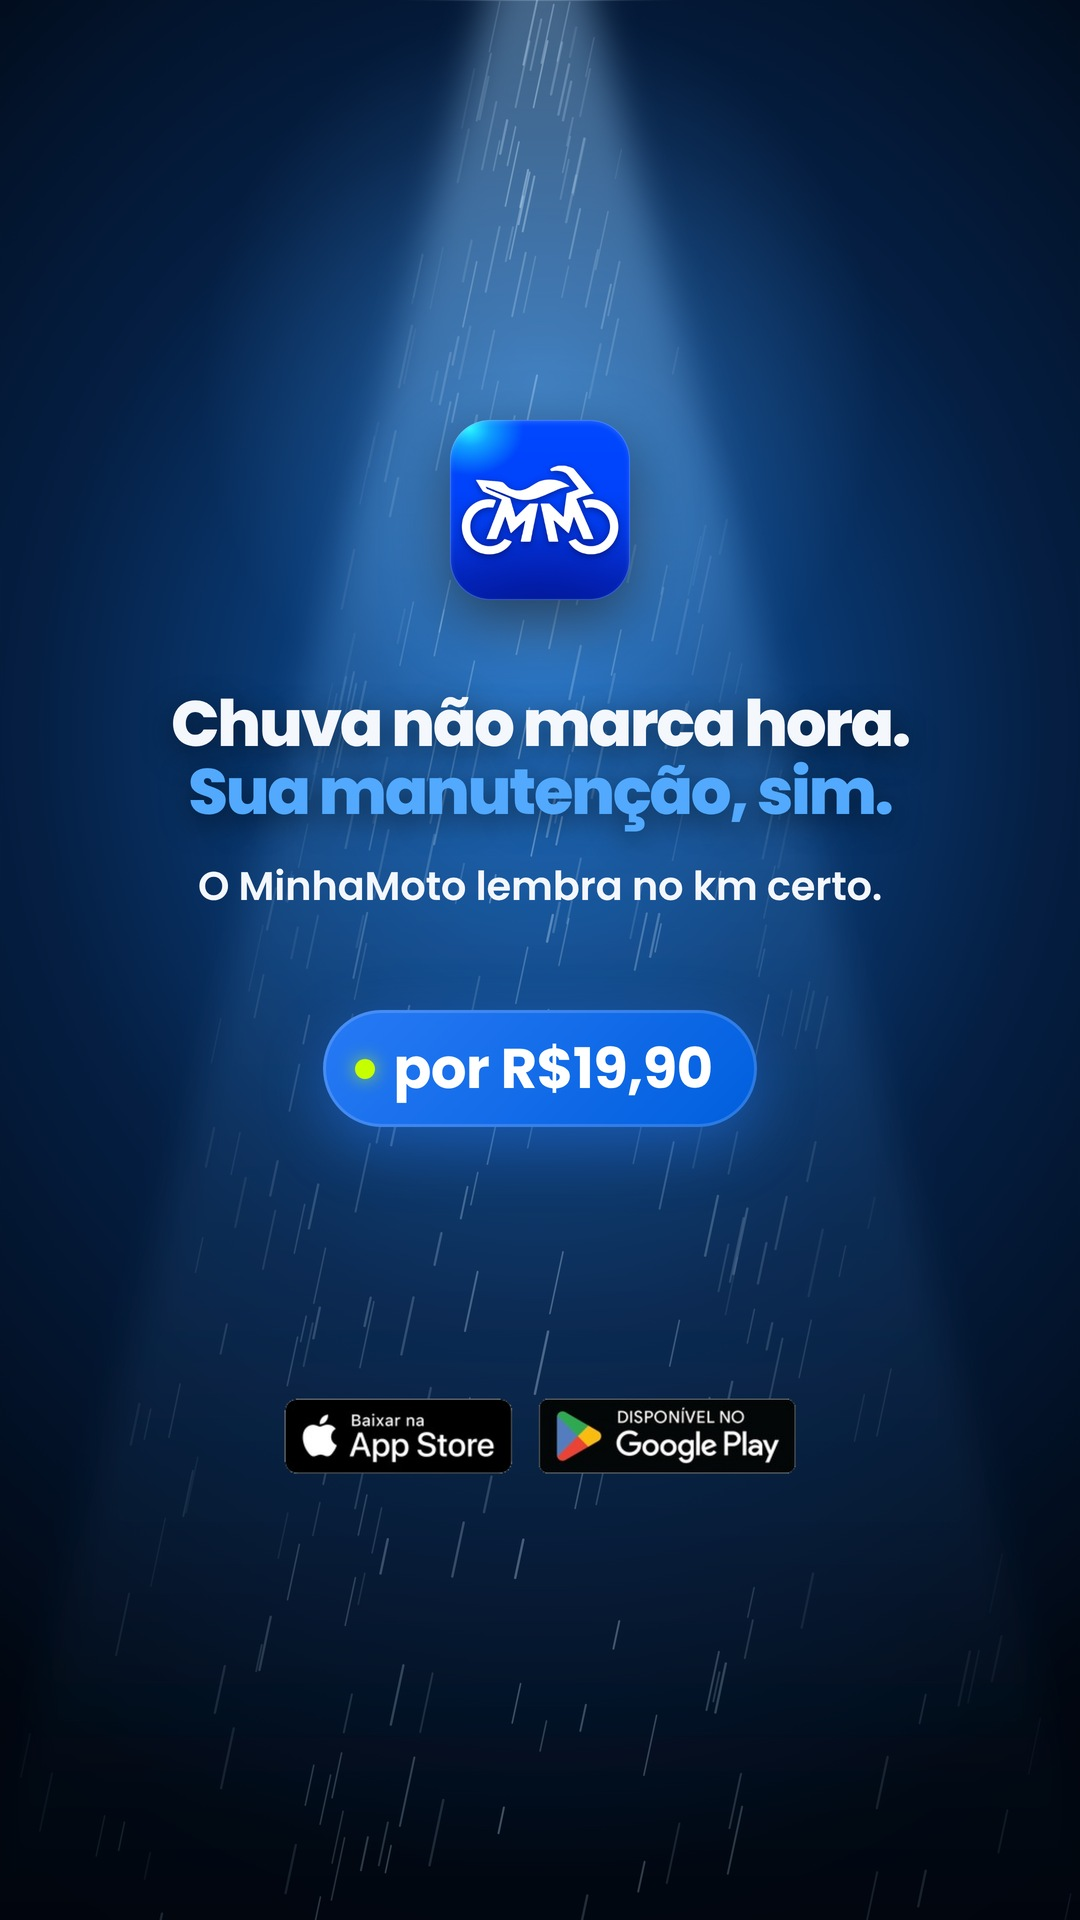
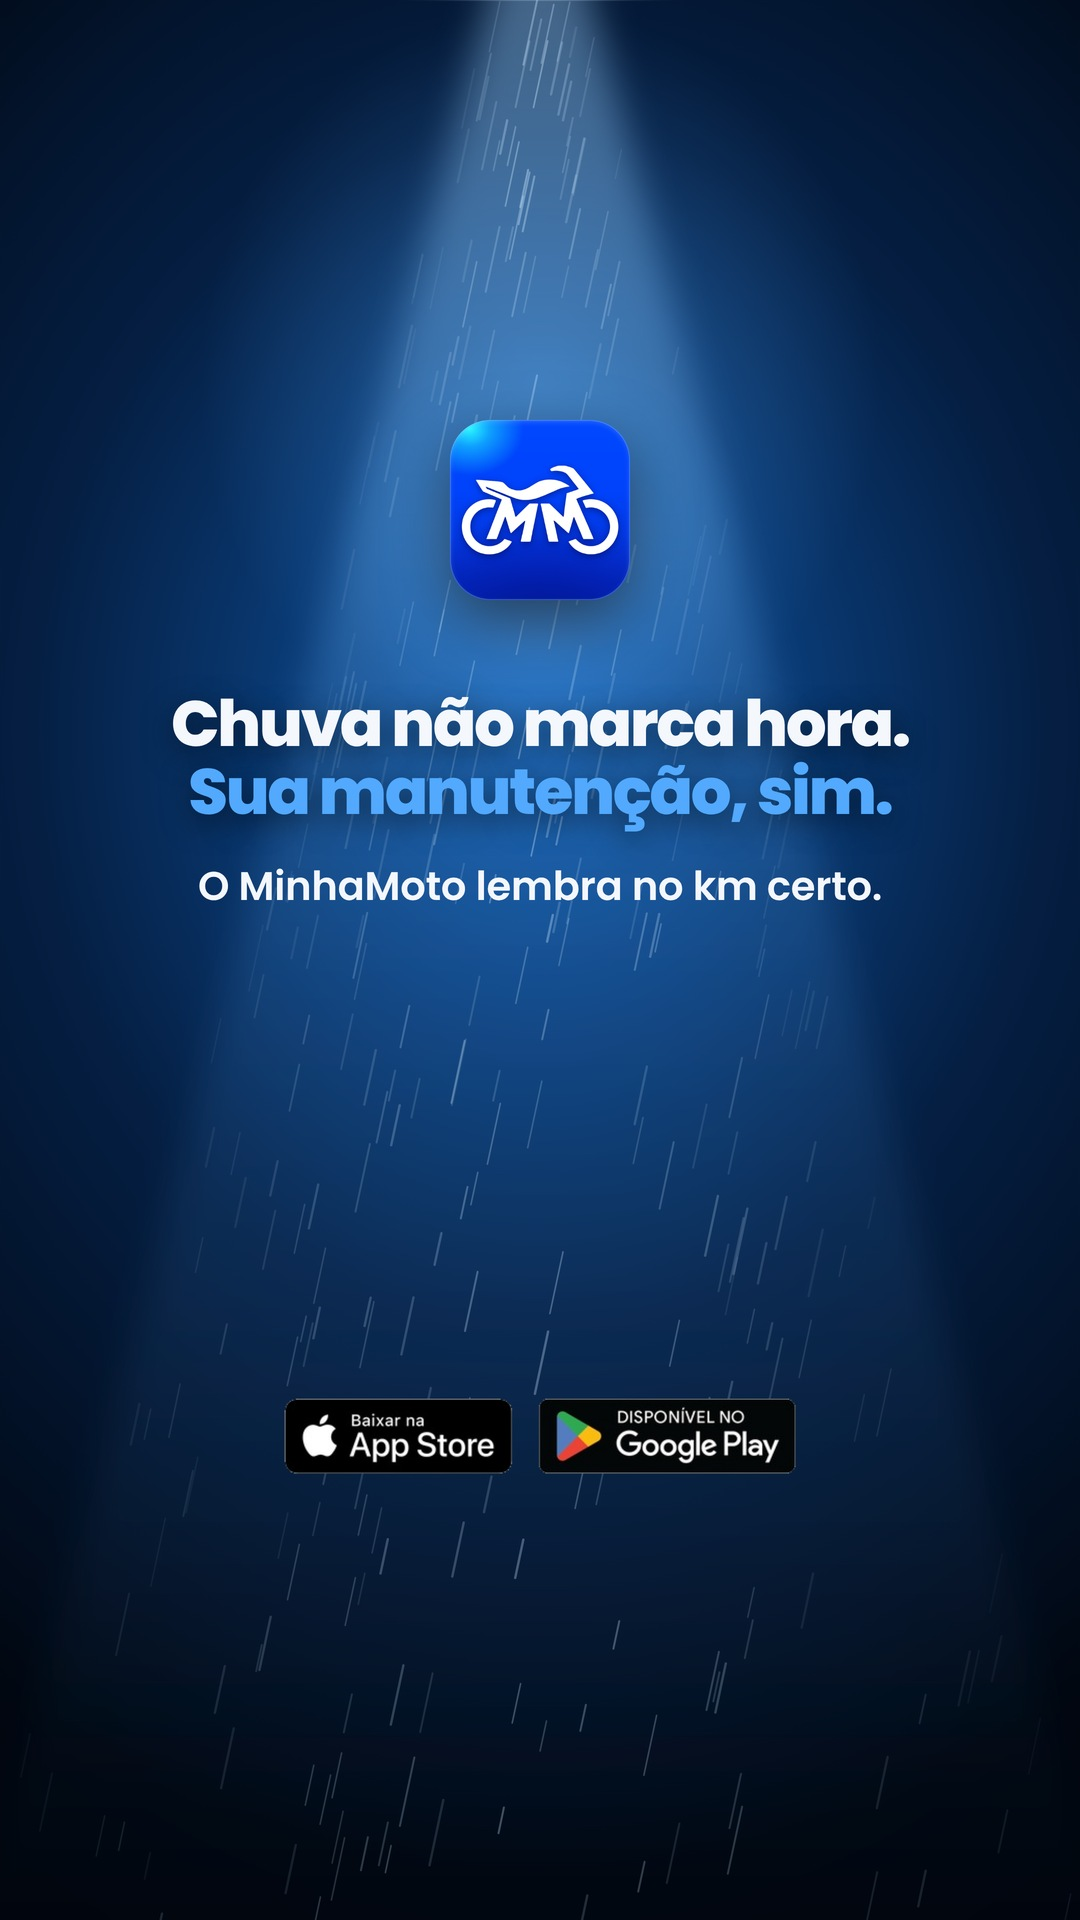
LOTE1: sem preço nos carrosséis (Léo 26/11)
Claude-Session: https://claude.ai/code/session_01GzJAJ8gSHYwpez61HiJmsp

Changed region(s): [[0.275, 0.5, 0.7028, 0.625]]

diff --git a/agencia/estudio/motores/lote1_cm05.py b/agencia/estudio/motores/lote1_cm05.py
@@ -1,7 +1,7 @@
 #!/usr/bin/env python3
 """LOTE1 · CM05 (refeito 24/11 após revisão) · "A chuva chegou. Sua moto tá pronta pra ela?"
 Tipo: checklist sazonal · Público: quem vai trabalhar de moto · Tom: mecânico parceiro · Ângulo: segurança
-Estética: escuro premium com feixe de farol na chuva (SVG, sem foto) · Capa: tipografia gigante · Final: CTA app + "por R$19,90".
+Estética: escuro premium com feixe de farol na chuva (SVG, sem foto) · Capa: tipografia gigante · Final: CTA app (sem preço, 26/11).
 Revisão: sem ícones (tipografia forte no lugar), cada checagem com composição própria, card do app = trecho real
 do sheet 28-item-proximo ampliado (sem 11-cuidados), copy nova.
 Fontes: Portal do Trânsito 09/11/2026 · AutoPapo 01/07/2025 (ver pecas/LOTE1/CM05/fontes.md).
@@ -139,7 +139,6 @@ def final(tt):
     c += titulo(['Chuva não marca hora.', 'Sua manutenção, sim.'], 0 if not tt else 140, ty, tam, w=1080 if not tt else 800, alinha='center', azul_de=1)
     ya = ty + alt_titulo(2, tam) + 34
     c += apoio(['O MinhaMoto lembra no km certo.'], 0 if not tt else 140, ya, 42 if not tt else 40, w=1080 if not tt else 800, alinha='center', cor='#F4F7FC', peso='j600')
-    c += f"<div style='position:absolute;left:0;right:0;text-align:center;top:{ya + 110}px'><span class=preco><i></i>por R$19,90</span></div>"
     c += f"<div style='position:absolute;left:0;right:0;text-align:center;top:{1380 if tt else 1190}px'><img src='file://{SELOS}' style='width:540px'></div>"
     return c
 

diff --git a/agencia/estudio/motores/lote1_cm01.py b/agencia/estudio/motores/lote1_cm01.py
@@ -1,7 +1,7 @@
 #!/usr/bin/env python3
 """LOTE1 · CM01 rodada 4 · "4 luzes no painel. Duas mandam parar na hora."
 Público: quem vai trabalhar de moto · Tipo: dica/teste (manual de bolso) · Ângulo: medo de prejuízo · Tom: especialista
-Estética: escuro premium · Capa: pergunta/teste · Final: CTA do app com "por R$19,90".
+Estética: escuro premium · Capa: pergunta/teste · Final: CTA do app (sem preço, 26/11).
 R4 (constituição 24/11): tela do app só no card 6 (mockup + card solto); cards 2–5 = conteúdo (luz de painel desenhada + copy).
 Conteúdo das 4 luzes = textos do próprio app (tela Sinais de problema, iPhone 1.0).
 Uso: python3 agencia/estudio/motores/lote1_cm01.py
@@ -109,7 +109,7 @@ def lista(tt):
         (T, luz(5, 3, 'Luz da bateria', 'Atenção', AMBAR, ['Desligou,', 'pode não', 'pegar mais.'],
                 'Não apague o motor longe de casa.', 'dir', tt, modo='enorme')),
         (T, tela(tt)),
-        (T, final_app(tt, T, 'Seu painel avisa.', 'O MinhaMoto explica.', 'Baixe agora e entenda sua moto.', preco=True)),
+        (T, final_app(tt, T, 'Seu painel avisa.', 'O MinhaMoto explica.', 'Baixe agora e entenda sua moto.', preco=False)),
     ]
 
 if __name__ == '__main__':

diff --git a/agencia/DESIGN-MINHAMOTO.md b/agencia/DESIGN-MINHAMOTO.md
@@ -33,6 +33,7 @@
 - **Tela do app: só em 1 ou 2 cards, perto do fim.** O resto do carrossel é conteúdo (texto, foto, grafismo). · 24/11
 - ~~**Como a tela entra:** misturar celular (mockup) e card solto flutuando.~~ → substituída em 26/11 (10h49): **o app só aparece como tela REAL inteira dentro do celular.** Nada de card solto/recorte flutuando, nada de notificação montada, nada de caixinha que imita o app ("esses cards que simulam o app, e não existem, me incomoda mt"). · 26/11
 - **(26/11) Ícones fortes demais incomodam:** ícone é apoio, não protagonista. Nada de bloco de ícone grande e saturado, luz de painel gigante, ícone gritando no card; se entrar, pequeno, discreto, na cor do texto ou em linha fina. Quem carrega o card é a foto real e a frase. · 26/11
+- **(26/11, 14h26) Sem preço nos carrosséis:** nada de "por R$19,90" (nem selo de preço) em card nenhum; o CTA é só baixar o app. · 26/11
 - **(26/11) "Pensa no público que está vendo!"** O carrossel é pra motoboy/motociclista comum rolando o feed no celular, não pra designer: cara do mundo dele (foto real de moto de trabalho, rua, oficina, garagem, painel de verdade), frase do jeito que ele fala, informação que ele usa no dia seguinte. Menos cara de "app de tecnologia", menos enfeite. Lote 1 r5: "legais, bem feitos, mas não gostei deles em si" → alterar tudo nessa direção sem refazer do zero. · 26/11
 - **Último card:** alternar entre CTA do app e "salva e manda pro amigo". · 24/11
 - **Título da capa:** grande (nível 4 de 5): quase ocupa a tela, sem virar o "gritante TikTok". · 24/11

diff --git a/agencia/estudio/pecas/LOTE1/CM01/legendas.md b/agencia/estudio/pecas/LOTE1/CM01/legendas.md
@@ -1,6 +1,6 @@
 # CM01 r4 · "4 luzes no painel. Duas mandam parar na hora."
 
-Público: quem vai trabalhar de moto · Ângulo: medo de prejuízo · Final: CTA do app (por R$19,90)
+Público: quem vai trabalhar de moto · Ângulo: medo de prejuízo · Final: CTA do app (sem preço)
 
 ## Instagram / Facebook
 4 luzes no painel. Duas mandam parar na hora. Você sabe quais?

diff --git a/agencia/estudio/pecas/LOTE1/CM05/legendas.md b/agencia/estudio/pecas/LOTE1/CM05/legendas.md
@@ -1,6 +1,6 @@
 # CM05 · "A chuva chegou. Sua moto tá pronta pra ela?" (refeito)
 
-Público: quem vai trabalhar de moto · Ângulo: segurança · Final: CTA do app (por R$19,90)
+Público: quem vai trabalhar de moto · Ângulo: segurança · Final: CTA do app (sem preço)
 
 ## Instagram / Facebook
 A chuva chegou. Sua moto tá pronta pra ela?
